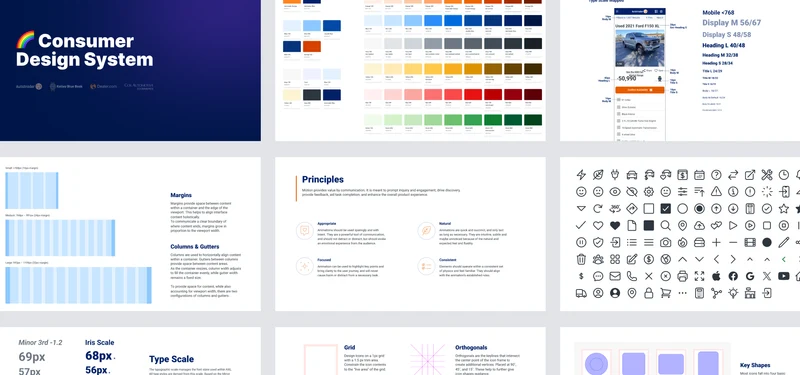
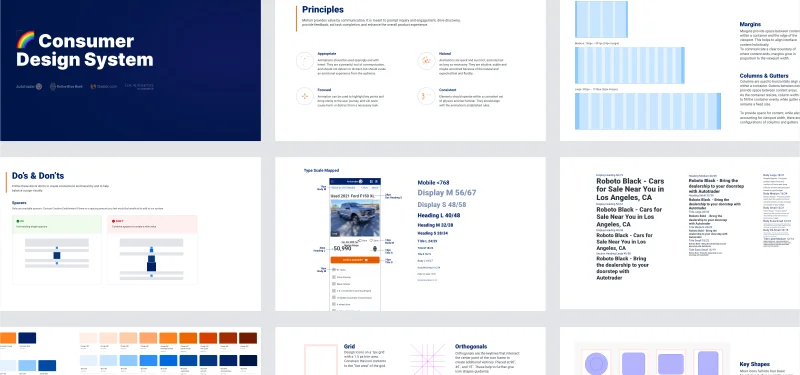
Refresh Iris foundations imagery and homepage thumbnail
- Replaces the foundations montage and homepage work-card thumbnail
  with updated exports
- Adds a second foundations detail image (type scale, breakpoints,
  grid) under the color palette/functional icons animation pair

diff --git a/iris-design-system.html b/iris-design-system.html
@@ -684,6 +684,10 @@
       </div>
     </div>
 
+    <div class="full-image">
+      <img srcset="img/iris_foundations_more-w800.webp 800w, img/iris_foundations_more.webp 2000w" sizes="92vw" width="2000" height="1297" src="img/iris_foundations_more.webp" alt="Additional Iris foundations detail: typography scale, iconography grid, and layout specifications" loading="lazy">
+    </div>
+
     <!-- Components -->
     <div class="text-section">
       <h2 class="section-heading">Components</h2>
